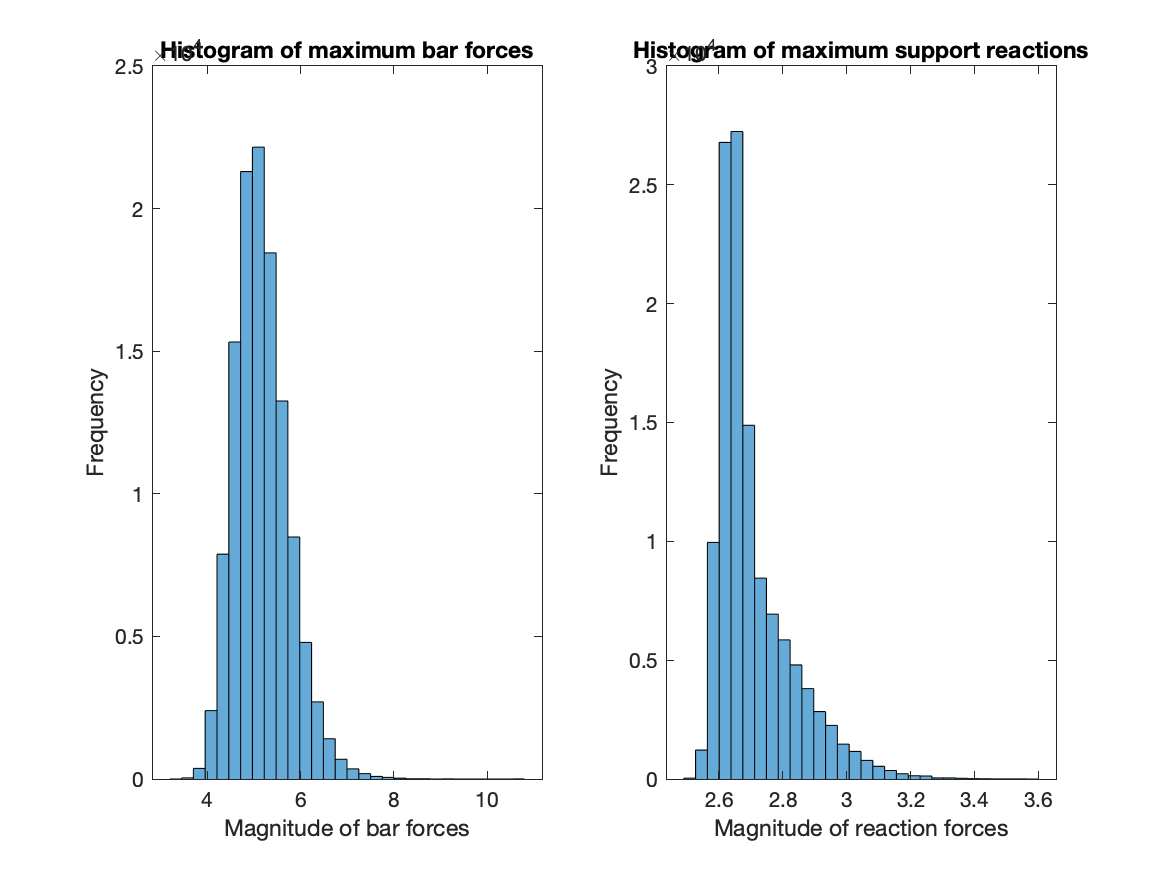
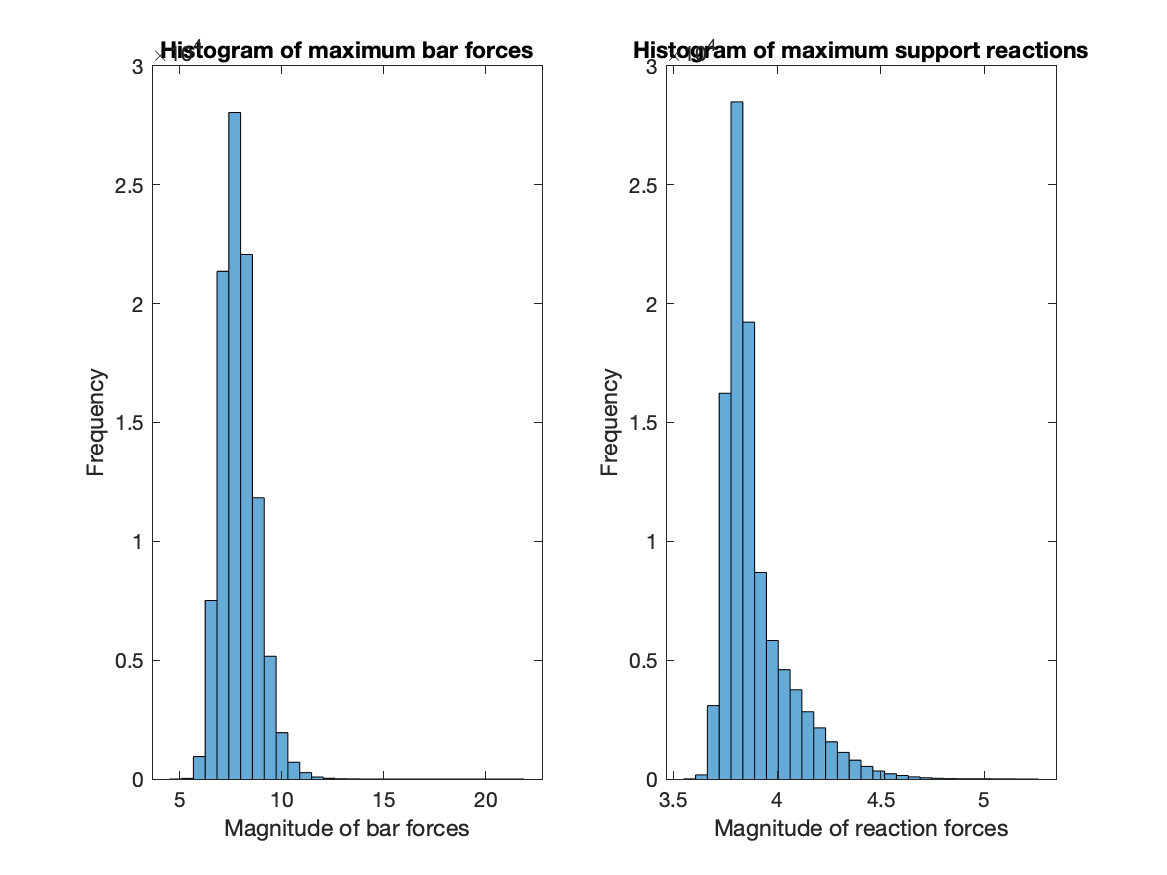
Updated README.md and added the 100% chance fail

diff --git a/Lab2/Truss3d/Design2/MonteCarls.m b/Lab2/Truss3d/Design2/MonteCarls.m
@@ -23,7 +23,7 @@ function [probfail] = MonteCarls(inputfile)
 jstrmean   = 4.8;   % mean of joint strength 4.8 N
 jstrcov    = 0.08;  % coefficient of variation (sigma/u) of joint strength = 0.4/4.8 N
 jposcov    = 0.01;  % coefficient of variation of joint position percent of length of truss (ext)
-numsamples = 1.2e5;   % number of samples
+numsamples = 1.0e5;   % number of samples
 
 
 

diff --git a/Lab2/Truss3d/Design2/TrussInNOutDesign2.m b/Lab2/Truss3d/Design2/TrussInNOutDesign2.m
@@ -2,8 +2,8 @@ clear;
 clc;
 close all;
 
-inputfile = 'Design2.inp';
-outputfile = 'Design2Out.txt';
+inputfile = 'Design2_100fail.inp';
+outputfile = 'Design2Out_100fail.txt';
 AssumedFail = 0.45 ;
 LinDensity = 31.13 / 1000 ; % Bars linear density kg / m 
 slevemass = (5.35/1000); % mass in kg

diff --git a/Lab2/Truss3d/Design2/README.md b/Lab2/Truss3d/Design2/README.md
@@ -26,6 +26,11 @@
 
 `Design2out.txt:` Output text file that presents all the result of the static analysis.
 
+`Design2_100fail.inp:` Matlab input file that has the maximum external loads the truss can carry, i.e. the Monte Carlo will return faliure chance of 100%
+
+`Design2out.txt:` Output text file that has the maximum external loads the truss can carry, i.e. the Monte Carlo will return faliure chance of 100%.
+   
+
 ---
 
 > Aerospace Engineering Department, ASEN2001: Statics and structures, Fall 2018, Lab 2.
